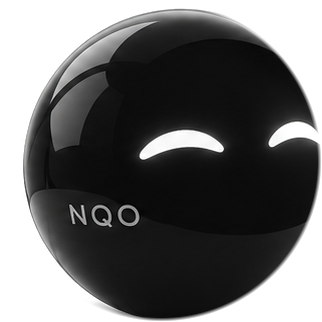
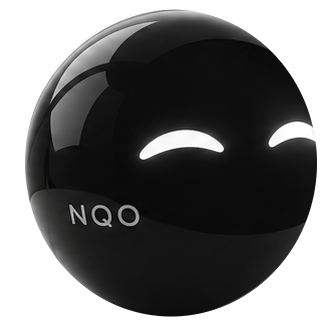
Робот следит за курсором, убрана белая кайма в тёмной теме
- RobotOrb: глаза в SVG на «сфере», слежение за курсором, моргание
- Картинки робота обрезаны по эллипсу без светлой каймы, залита дырка правого глаза
- scripts/process-robot.ps1 — скрипт обработки картинки
- CLAUDE.md: текущее состояние проекта

diff --git a/src/styles/global.css b/src/styles/global.css
@@ -60,7 +60,7 @@
   --shadow: rgba(0, 0, 0, 0.5);
   --error: #ff6b6b;
   --ok: #5fd38b;
-  --robot-glow: rgba(255, 255, 255, 0.14);
+  --robot-glow: transparent;
 }
 
 /* ===== Основа ===== */
@@ -526,6 +526,15 @@ img {
   width: 100%;
   height: 100%;
   object-fit: contain;
+}
+
+/* Глаза робота поверх картинки (RobotOrb.astro) */
+.orb-eyes {
+  position: absolute;
+  inset: 0;
+  width: 100%;
+  height: 100%;
+  pointer-events: none;
 }
 
 .bubble {

diff --git a/CLAUDE.md b/CLAUDE.md
@@ -31,7 +31,8 @@
 - **Настройки** — `src/content/settings.json` (WhatsApp-номер, Telegram @имя, ссылка записи, e-mail, реквизиты, GA ID) → `src/config.ts` собирает ссылки (пусто → `#`; на «Контактах» такие кнопки не показываются).
 - **Маршруты**: `src/pages/[lang]/index.astro` и `src/pages/[lang]/[page].astro` (getStaticPaths). Содержимое страниц — `src/components/pages/*.astro`.
 - Общее: `layouts/Base.astro` (head, SEO, тема, подключает всё ниже), `Header.astro` (меню, язык, тема, ☰), `Footer.astro`, `PageIntro`, `Cta`, `DemoCard` + `DemoModal` (кнопки `data-demo="inbox|chat|integration"`), `Helper` (подсказчик по ключевым словам, без AI), `CookieBanner`, `Logo`.
-- `public/images/robot.png` — робот из макета; `public/favicon.svg` — знак NQO.
+- **Робот на главной** — `RobotOrb.astro`: картинка шара без глаз (`public/images/robot-body.png`) + глаза в SVG поверх; глаза следят за курсором (модель «точка на сфере»: долгота/широта, поза покоя `REST` = как в макете), моргают, уважают `prefers-reduced-motion`. `public/images/robot.png` — робот с глазами (подсказчик, og:image). Обе картинки получены из исходника макета скриптом `scripts/process-robot.ps1` (обрезка по эллипсу без светлой каймы, заливка «дырки» правого глаза, стирание глаз); исходник — `git show 13d962e:public/images/robot.png`.
+- `public/favicon.svg` — знак NQO.
 - **Форма** — `contact` страница → `netlify/functions/lead.mjs` (`/api/lead`): name, company, contact, interest, task, consent (обязательно), ловушка `website`; отправка в **Telegram**. Секреты `TELEGRAM_BOT_TOKEN`, `TELEGRAM_CHAT_ID` — `.env` (не в git) и Netlify. Сейчас **тестовый бот**, заявки в личный чат владельца (ID в `.env`).
 - **Админка Keystatic** — `keystatic.config.ts` (схема повторяет `Dict`), `/keystatic`, `storage: github` (`K111Zi/nexflow-site`). GitHub App `k111zi-keystatic` создан; ключи `KEYSTATIC_*`, `PUBLIC_KEYSTATIC_GITHUB_APP_SLUG` — в `.env` и (нужно) в Netlify. После правок в админке — `git pull`.
 - `src/i18n/privacy.ts` — текст политики (шаблон GDPR, в коде). `sitemap.xml.ts`, `robots.txt.ts` — все страницы.
@@ -51,10 +52,18 @@
 - Сайт: **https://creative-sunshine-6d5e20.netlify.app**
 - Редиректы проверять через `curl.exe` (Invoke-WebRequest в PS 5.1 падает на 301).
 
+## Состояние на 2026-11-13
+
+- Сайт опубликован и работает: 21 страница, форма на сайте шлёт заявки в Telegram (проверено), вход в админку перенаправляет на GitHub (сохранение через админку владелец ещё не пробовал).
+- Переменные окружения в Netlify заданы (Telegram + Keystatic). **После изменения переменных нужна новая сборка** — иначе функции их не видят.
+- Netlify CLI: вход выполнен, папка привязана к сайту (`.netlify/state.json`, аккаунт `kizi`). Пересборка: `npx netlify-cli api createSiteBuild --data '{"site_id":"<id из state.json>"}'`.
+- **Не выложено на сайт:** коммит с роботом, следящим за курсором, и исправлением белой каймы в тёмной теме — только локально, ждёт `git push origin main` (спросить владельца). Возможный мелкий дефект: светлая точка у правого края шара при взгляде влево.
+- В работе: **контакты и запись на звонок** — ждём от владельца номер WhatsApp, @имя Telegram, e-mail, ссылку Cal.com (или он внесёт сам в админке → «Настройки»). Потом — встроить календарь Cal.com в страницу «Контакты».
+
 ## Что дальше
 
-1. **Netlify:** импортировать переменные из `.env` (Telegram + Keystatic) и пересобрать — тест формы на сайте вернул `not_configured`; затем проверить заявку и вход в админку на сайте.
-2. Заполнить настройки: WhatsApp, Telegram, Cal.com, e-mail, реквизиты (зарегистрирована ли компания — не уточнено), GA ID.
+1. Выложить робота (push), заполнить контакты (см. выше).
+2. Реквизиты компании (зарегистрирована ли — не уточнено), GA ID.
 3. Настоящий бот NQO вместо тестового (токен тестового светился в чате).
 4. Домен под NQO → `site` в `astro.config.mjs`; проверить свободность имени/знака NQO.
 5. Политику — юристу; ET/EN тексты — носителям. Решить про «разработку сайтов» в услугах.
